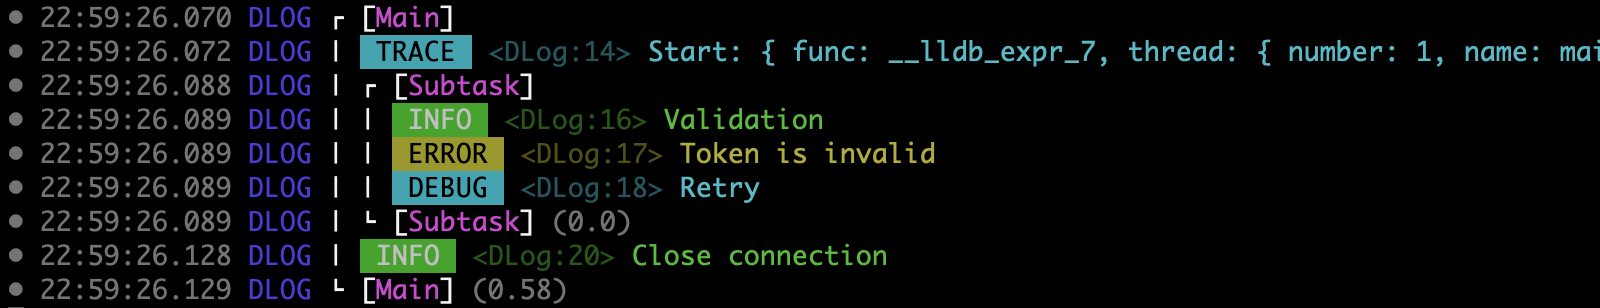
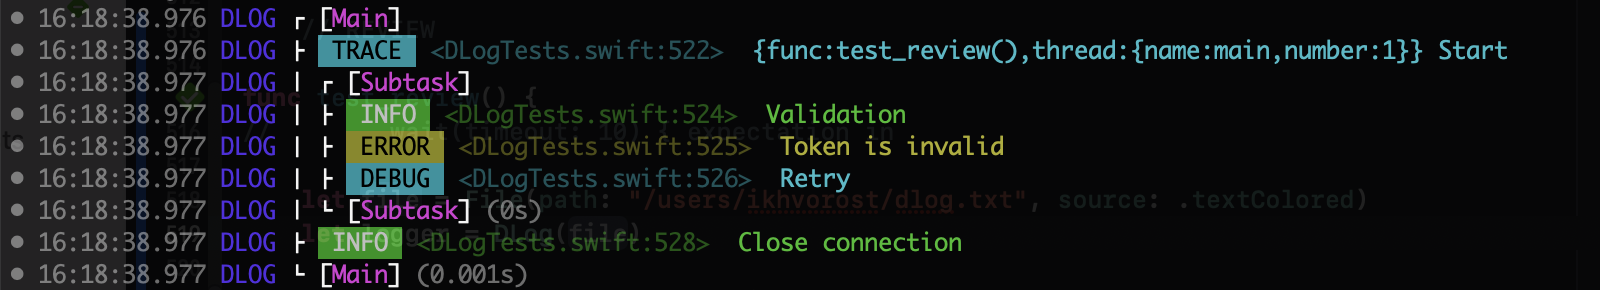
Readme: updated sample codes

Changed region(s): [[0.0, 0.0, 1.0, 1.0]]

diff --git a/README.md b/README.md
@@ -58,7 +58,7 @@ Where:
 - `•` - start sign (useful for filtering)
 - `23:59:11.710` - timestamp (HH:mm:ss.SSS)
 - `[DLOG]` - category tag ('DLOG' by default)
-- `[LOG]` - log type tag
+- `[LOG]` - log type tag ('LOG', 'TRACE', 'DEBUG' etc.)
 - `<DLog.swift:12>` - location (fileName:line)
 - `Hello DLog!` - message
 
@@ -151,19 +151,20 @@ Outputs:
 Log the current function name and a message (if it is provided) to help in debugging problems during the development:
 
 ```swift
-func startup() {
-    logger.trace("Start")
-    logger.trace()
-}
+let logger = DLog()
 
+func startup() {
+    logger.trace()
+    logger.trace("start")
+}
 startup()
 ```
 
 Outputs:
 
 ```
-• 23:45:31.198 [DLOG] [TRACE] <DLog.swift:13> Start: { func: startup(), thread: { number: 1, name: main } }
-• 23:45:31.216 [DLOG] [TRACE] <DLog.swift:14> func: startup(), thread: { number: 1, name: main }
+• 19:11:23.278 [DLOG] [TRACE] <DLogTests.swift:521> {func:startup(),thread:{name:main,number:1}}
+• 19:11:23.279 [DLOG] [TRACE] <DLogTests.swift:522> {func:startup(),thread:{name:main,number:1}} start
 ```
 
 ### `debug`
@@ -212,7 +213,7 @@ do {
     try FileManager.default.moveItem(at: fromURL, to: toURL)
 }
 catch {
-    logger.error(error.localizedDescription)
+    logger.error("\(error.localizedDescription)")
 }
 ```
 
@@ -881,21 +882,20 @@ logger.scope("Loading") { scope in
 }
 ```
 
-> NOTE: To pin your messages to a needed scope you should use the provided parameter of the closure that is scope logger.
+> NOTE: To pin your messages to a scope you should use the provided scope instance to call `log`, `trace`, etc.
 
 Outputs:
 
 ```
 • 23:57:13.410 [DLOG] ┌ [Loading]
-• 23:57:13.427 [DLOG] | [INFO] <DLog.swift:14> File: path/data.json
-• 23:57:13.443 [DLOG] | [DEBUG] <DLog.swift:16> Loaded 121 bytes
+• 23:57:13.427 [DLOG] ├ [INFO] <DLog.swift:14> File: path/data.json
+• 23:57:13.443 [DLOG] ├ [DEBUG] <DLog.swift:16> Loaded 121 bytes
 • 23:57:13.443 [DLOG] └ [Loading] (0.330s)
-
 ```
 
 Where:
- - `[Loading]` - a name of the scope
- - `(0.330s)` - a time duration of the scope in secs
+ - `[Loading]` - Name of the scope.
+ - `(0.330s)` - Time duration of the scope in secs.
 
 You can get duration value of a finished scope programatically:
 
@@ -904,7 +904,7 @@ var scope = logger.scope("scope") { _ in
     ...
 }
 
-print(scope.duration)
+print(scope.duration) // Time duration
 ```
 
 It's possible to `enter` and `leave` a scope asynchronously:
@@ -933,8 +933,8 @@ Outputs:
 
 ```
 • 00:01:24.158 [DLOG] ┌ [Request]
-• 00:01:24.829 [DLOG] | [DEBUG] <DLog.swift:25> https://www.apple.com/ - HTTP 200
-• 00:01:24.830 [DLOG] | [DEBUG] <DLog.swift:26> Loaded: 74454 bytes
+• 00:01:24.829 [DLOG] ├ [DEBUG] <DLog.swift:25> https://www.apple.com/ - HTTP 200
+• 00:01:24.830 [DLOG] ├ [DEBUG] <DLog.swift:26> Loaded: 74454 bytes
 • 00:01:24.830 [DLOG] └ [Request] (0.671s)
 ```
 
@@ -962,10 +962,10 @@ Outputs:
 
 ```
 • 00:03:13.552 [DLOG] ┌ [Loading]
-• 00:03:13.554 [DLOG] | [INFO] <DLog.swift:20> File: file:///path/data.json
-• 00:03:13.555 [DLOG] | [DEBUG] <DLog.swift:23> Loaded 121 bytes
+• 00:03:13.554 [DLOG] ├ [INFO] <DLog.swift:20> File: file:///path/data.json
+• 00:03:13.555 [DLOG] ├ [DEBUG] <DLog.swift:23> Loaded 121 bytes
 • 00:03:13.555 [DLOG] | ┌ [Parsing]
-• 00:03:13.557 [DLOG] | | [DEBUG] <DLog.swift:27> Parsed 3 items
+• 00:03:13.557 [DLOG] | ├ [DEBUG] <DLog.swift:27> Parsed 3 items
 • 00:03:13.557 [DLOG] | └ [Parsing] (0.200s)
 • 00:03:13.609 [DLOG] └ [Loading] (0.560s)
 ```
@@ -976,7 +976,7 @@ Outputs:
 
 ```swift
 for _ in 0..<10 {
-    logger.interval("Sort") {
+    logger.interval("sorting") {
         var arr = (1...10000).map {_ in arc4random()}
         arr.sort()
     }
@@ -986,22 +986,22 @@ for _ in 0..<10 {
 Outputs:
 
 ```
-• 20:00:01.439 [DLOG] [INTERVAL] <DLogTests.swift:518> {average:0.022s,duration:0.022s} Sort
-• 20:00:01.462 [DLOG] [INTERVAL] <DLogTests.swift:518> {average:0.022s,duration:0.022s} Sort
-• 20:00:01.484 [DLOG] [INTERVAL] <DLogTests.swift:518> {average:0.022s,duration:0.022s} Sort
-• 20:00:01.507 [DLOG] [INTERVAL] <DLogTests.swift:518> {average:0.022s,duration:0.022s} Sort
-• 20:00:01.528 [DLOG] [INTERVAL] <DLogTests.swift:518> {average:0.022s,duration:0.022s} Sort
-• 20:00:01.550 [DLOG] [INTERVAL] <DLogTests.swift:518> {average:0.022s,duration:0.021s} Sort
-• 20:00:01.570 [DLOG] [INTERVAL] <DLogTests.swift:518> {average:0.021s,duration:0.020s} Sort
-• 20:00:01.591 [DLOG] [INTERVAL] <DLogTests.swift:518> {average:0.021s,duration:0.020s} Sort
-• 20:00:01.611 [DLOG] [INTERVAL] <DLogTests.swift:518> {average:0.021s,duration:0.020s} Sort
-• 20:00:01.632 [DLOG] [INTERVAL] <DLogTests.swift:518> {average:0.021s,duration:0.020s} Sort
+• 20:00:01.439 [DLOG] [INTERVAL] <DLogTests.swift:518> {average:0.022s,duration:0.022s} sorting
+• 20:00:01.462 [DLOG] [INTERVAL] <DLogTests.swift:518> {average:0.022s,duration:0.022s} sorting
+• 20:00:01.484 [DLOG] [INTERVAL] <DLogTests.swift:518> {average:0.022s,duration:0.022s} sorting
+• 20:00:01.507 [DLOG] [INTERVAL] <DLogTests.swift:518> {average:0.022s,duration:0.022s} sorting
+• 20:00:01.528 [DLOG] [INTERVAL] <DLogTests.swift:518> {average:0.022s,duration:0.022s} sorting
+• 20:00:01.550 [DLOG] [INTERVAL] <DLogTests.swift:518> {average:0.022s,duration:0.021s} sorting
+• 20:00:01.570 [DLOG] [INTERVAL] <DLogTests.swift:518> {average:0.021s,duration:0.020s} sorting
+• 20:00:01.591 [DLOG] [INTERVAL] <DLogTests.swift:518> {average:0.021s,duration:0.020s} sorting
+• 20:00:01.611 [DLOG] [INTERVAL] <DLogTests.swift:518> {average:0.021s,duration:0.020s} sorting
+• 20:00:01.632 [DLOG] [INTERVAL] <DLogTests.swift:518> {average:0.021s,duration:0.020s} sorting
 ```
 
 Where:
- - `Sort` - a name of the interval
- - `duration` - the current time duration
- - `average` - an average time duration
+- `average` - Average time duration of all intervals.
+- `duration` - The current time duration of the current interval.
+- `sorting` - Name of the interval.
 
 You can also get the current interval's duration and all its statistics programatically:
 
@@ -1010,13 +1010,13 @@ let interval = logger.interval("signpost") {
     ...
 }
 
-print(interval.duration)
+print(interval.duration) // The current duration
 
-print(interval.statistics.count)
-print(interval.statistics.total)
-print(interval.statistics.min)
-print(interval.statistics.max)
-print(interval.statistics.average)
+print(interval.statistics.count) // Total count of calls
+print(interval.statistics.total) // Total time of all durations
+print(interval.statistics.min) // Min duration
+print(interval.statistics.max) // Max duration
+print(interval.statistics.average) // Average duraton
 ```
 
 To measure asynchronous tasks you can use `begin` and `end` methods:
@@ -1089,8 +1089,8 @@ netLogger.trace("net")
 
 Outputs:
 ```
-• 13:31:43.773 [DLOG] [TRACE] <DLogTests.swift:487> default: { func: test_Config(), thread: { number: 1, name: main } }
-> 13:31:43.775 [NET] [TRACE] net: { queue: com.apple.main-thread }
+• 19:53:11.990 [DLOG] [TRACE] <DLogTests.swift:527> {func:test_review(),thread:{name:main,number:1}} default
+> 19:53:11.991 [NET] [TRACE] {queue:com.apple.main-thread} net
 ```
 
 ## Metadata
@@ -1116,18 +1116,22 @@ Outputs:
 • 19:38:56.402 [DLOG] [LOG] <DLogTests.swift:518> finish
 ```
 
-The same works with category and scope which copies its parent metadata, but this copy can be changed later:
+Where: `(id:12345,process:main)` - key-value pairs of the current metadata.
+
+The same works with category and scope which copy its parent metadata on creation, but this copy can be changed later:
 
 ```swift
 let logger = DLog(metadata: ["id" : 12345])
 logger.log("start")
         
+// Scope
 logger.scope("scope") { scope in
     scope.log("start")
     scope.metadata["id"] = nil // Remove "id" kev-value pair
     scope.log("finish")
 }
 
+// Category
 let category = logger["NET"]
 category.metadata["method"] = "POST"
 category.log("post data")
@@ -1550,11 +1554,9 @@ Outputs:
 
 ```swift
 let filter = Filter { item in
-    let name = "Load"
-    if let scope = item as? LogScope {
-        return scope.text() == name
-    }
-    return item.scope?.text() == name
+    return item.scope?.name == "Load"
+} isScope: { scope in
+    return scope.name == "Load"
 }
 
 let logger = DLog(.textPlain => filter => .stdout)
@@ -1574,12 +1576,11 @@ logger.fault("fault")
 ```
 
 Outputs:
-
 ```
-• 00:19:59.573 [DLOG] ┌ [Load]
-• 00:19:59.573 [DLOG] | [DEBUG] <DLog.swift:27> debug
-• 00:19:59.586 [DLOG] | [ERROR] <DLog.swift:34> error
-• 00:19:59.586 [DLOG] └ [Load] (0.130s)
+• 16:28:50.443 [DLOG] ┌ [Load] 
+• 16:28:50.443 [DLOG] ├ [DEBUG] <DLogTests.swift:528> debug
+• 16:28:50.443 [DLOG] ├ [ERROR] <DLogTests.swift:535> error
+• 16:28:50.443 [DLOG] └ [Load] (0.001s)
 ```
 
 ## `.disabled`
@@ -1683,14 +1684,15 @@ doTest()
 Outputs:
 
 ```
-• 12:20:47.137 [DLOG] [TRACE] <DLog.swift:13> func: doTest(), thread: { number: 1, name: main }
+• 16:42:56.065 [DLOG] [TRACE] <DLogTests.swift:521> {func:doTest(),thread:{name:main,number:1}}
 ```
 
-But you can change it to show a function and queue names:
+But you can change it to show a function and queue names with pretty style:
 
 ```swift
 var config = LogConfig()
 config.traceConfig.options = [.function, .queue]
+config.traceConfig.style = .pretty
 
 let logger = DLog(config: config)
 
@@ -1704,7 +1706,10 @@ doTest()
 Outputs:
 
 ```
-• 12:37:24.101 [DLOG] [TRACE] <DLog.swift:11> func: doTest(), queue: com.apple.main-thread
+• 19:34:31.637 [DLOG] [TRACE] <DLogTests.swift:178> {
+  func : doTest(),
+  queue : com.apple.main-thread
+}
 ```
 
 #### `ThreadConfig`
@@ -1731,8 +1736,8 @@ DispatchQueue.global().async {
 Outputs:
 
 ```
-• 13:01:32.859 [DLOG] [TRACE] <DLog.swift:9> func: doTest(), thread: { number: 1, qos: userInteractive }
-• 13:01:32.910 [DLOG] [TRACE] <DLog.swift:9> func: doTest(), thread: { number: 3, qos: userInitiated }
+• 16:44:54.548 [DLOG] [TRACE] <DLogTests.swift:524> {func:doTest(),thread:{number:1,qos:userInteractive}}
+• 16:44:54.549 [DLOG] [TRACE] <DLogTests.swift:524> {func:doTest(),thread:{number:2,qos:userInitiated}}
 ```
 
 #### `StackConfig`
@@ -1740,13 +1745,14 @@ Outputs:
 The `trace` method can output the call stack backtrace of the current thread at the moment this method was called. To enable this feature you should configure stack view options, style and depth with `stackConfig` property:
 
 ```swift
-var config = LogConfig()
-config.traceConfig.options = [.stack]
-config.traceConfig.stackConfig.options = [.symbols]
-config.traceConfig.stackConfig.style = .column
-config.traceConfig.stackConfig.depth = 3
-
-let logger = DLog(config: config)
+let logger: DLog = {
+    var config = LogConfig()
+    config.traceConfig.options = [.stack]
+    config.traceConfig.stackConfig.options = [.symbols, .frame]
+    config.traceConfig.stackConfig.depth = 3
+    config.traceConfig.style = .pretty
+    return DLog(config: config)
+}()
 
 func third() {
     logger.trace()
@@ -1766,10 +1772,22 @@ first()
 Outputs:
 
 ```
-• 23:06:24.092 [DLOG] [TRACE] <AppDelegate:45> stack: [
-0: { symbols: Test.third() -> () }
-1: { symbols: Test.second() -> () }
-2: { symbols: Test.first() -> () } ]
+• 18:57:05.195 [DLOG] [TRACE] <DLogTests.swift:178> {
+  stack : [
+    {
+      frame : 0,
+      symbols : DLogTests.third() -> ()
+    },
+    {
+      frame : 1,
+      symbols : DLogTests.second() -> ()
+    },
+    {
+      frame : 2,
+      symbols : DLogTests.first() -> ()
+    }
+  ]
+}
 ```
 
 > NOTE: A full call stack backtrace is available in Debug mode only.
@@ -1792,7 +1810,7 @@ logger.interval("signpost") {
 Outputs:
 
 ```
-• 23:26:40.978 [DLOG] [INTERVAL] <DLog.swift:13> signpost: { duration: 3.200s, count: 1, total: 3.200s, min: 3.200s, max: 3.200s, average: 3.200s }
+• 18:59:49.314 [DLOG] [INTERVAL] <DLogTests.swift:177> {average:3.005s,count:1,duration:3.005s,max:3.005s,min:3.005s,total:3.005s} signpost
 ```
 
 ## Objective-C
@@ -1881,7 +1899,7 @@ Outputs:
 
 ``` objective-c
 // Debug messages only
-LogOutput* filter = [LogOutput filter:^BOOL(LogItem* logItem) {
+LogOutput* filter = [LogOutput filterWithItem:^BOOL(LogItem* logItem) {
     return logItem.type == LogTypeDebug;
 }];
 
